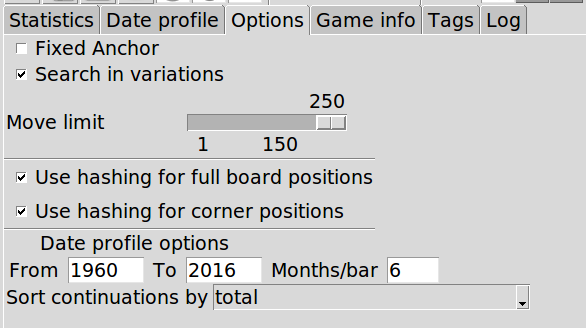
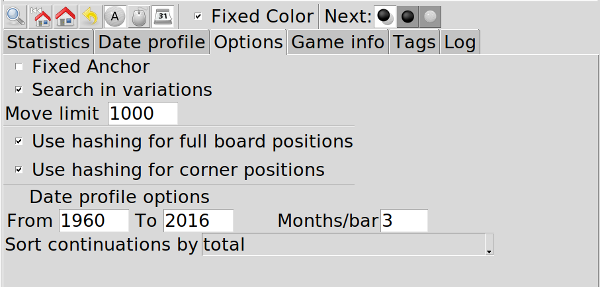
Update documentation

Changed region(s): [[0.0, 0.0, 1.0, 1.0]]

diff --git a/doc/manual.rst b/doc/manual.rst
@@ -50,10 +50,10 @@ Now continue with the :ref:`getting-started` section of the tutorial.
 database files created by Kombilo, you should remove the databases from within
 Kombilo before uninstalling.)
 
-*Upgrading:* Upgrading from 0.8 to 0.8.1 can be done via pip (``pip install -U
-kombilo``). If you still have an old Kombilo instance (version 0.7.\*) around,
-it does not interact with Kombilo 0.8.?. You have to newly process the SGF
-databases for 0.8.
+*Upgrading:* Upgrading from one 0.8.\* version to another can be done via pip
+(``pip install -U kombilo``). If you still have an old Kombilo instance (version
+0.7.\*) around, it does not interact with Kombilo 0.8.\*. You have to newly
+process the SGF databases when upgrading from 0.7.\* to 0.8.\*.
 
 .. index::
   pair: Installation; Mac OS X
@@ -106,16 +106,28 @@ Windows
 -------
 
 There is an installer provided for Kombilo which should *just work* and which is
-recommended.
+the easiest option. Alternatively (and that would be the cleaner way, even if
+a little more cumbersome) you can also install Python 2.7 from `python.org
+<http://www.python.org/>`_ and then install Kombilo as a Python package via
+`c:\python27\scripts\pip.exe install kombilo`.
 
 *Uninstall*: The installer automatically installs a program to uninstall
 Kombilo.  To also remove the database files created by Kombilo, you should
 remove the databases from within Kombilo before uninstalling.
 
-*Upgrading from version 0.7*: There is no automatic upgrading. Just install
-Kombilo 0.8.1, and deinstall Kombilo 0.7.\*. The two versions can also coexist,
-so you could leave the old version until you are convinced that the new version
-works. You will have to newly process your databases for 0.8.1.
+*Upgrading from version 0.7*: There is no automatic upgrading. Just deinstall
+the old Kombilo version and install the new one.  Versions 0.7.\* and 0.8.\* can
+also coexist, so you could leave the old version until you are convinced that
+the new version works. You will have to newly process your databases for 0.8.\*
+when coming from 0.7.\*. Befor deinstalling 0.7.\* you should remove the
+databases (in the *Edit DB list* window) because the database files will not be
+removed by the uninstaller.
+
+*Upgrading from one 0.8.\* version to another one*: There is no automatic
+upgrading. It is probably safest (but should not be required) to deinstall the
+old version, and then install the new one. Your configuration file and the
+databases you hav inserted will be kept. There is no need to reprocess the
+databases.
 
 If you want to make changes to the program, you will need to build the program
 yourself. For this, you will need Python 2.7 and a C++ compiler (Microsoft
@@ -269,7 +281,14 @@ database for pattern search. You can also select whether all games (or
 none) of the database should be considered as pro games, or whether this
 should be decided by the rank specified in the files.
 
-If you prefer, you can specifiy a folder where the Kombilo files should be
+The default behavior of Kombilo is to create one database per folder (so
+descending recursively into some folder many databases might be created).
+Whether this is suitable or not depends on the number of folders, and the number
+of files in each folder. Unless you have special needs (and a computer with very
+little or very much RAM), it is recommended to aim at databases of between 10000
+and 50000 games.
+
+If you prefer, you can specify a folder where the Kombilo files should be
 stored. If you do not name a folder here, the files will be stored in the
 folder containing your SGF files.
 
@@ -281,7 +300,7 @@ selected the corresponding option before processing the games.)
 The hashing algorithms speed up searches for full board and corner
 positions respectively, on the other hand the procesing takes slightly
 longer, more disk space is consumed, and Kombilo uses more memory when
-running.
+running, and especially when processing new games.
 
 
 .. index::
@@ -306,6 +325,9 @@ In the lower text area, Kombilo will output messages about the processed games.
 * **not inserted**: For games which are not inserted into the database, this
   message is appended to the error message. Otherwise, the game is inserted.
 
+You can switch off the messages about duplicates and names of the processed
+folders by disabling the *Detailed log* option.
+
 
 File sizes
 ..........
@@ -322,8 +344,8 @@ on the amount of memory in your computer.  I recommend a size of at least
 1,000 - 2,000 SGF files per database; that should be fine on almost every
 system.  If you have a lot of memory, you can experiment with larger
 databases to increase performance. For databases with ten thousands of
-games, the "finalizing" will take quite some time (a few minutes for the
-70,000 GoGoD games on my laptop), so please be patient.
+games, the "finalizing" will take quite some time (a minute or two for the
+85,000 GoGoD games on my laptop), so please be patient.
 
 Kombilo will create several database files: ``kombilo.db``, ``kombilo.da``,
 and if you use the hashing algorithms, also ``kombilo.db1`` and
@@ -440,8 +462,7 @@ Search in variations
   considered.
 
 move limit
-  Find only occurrences before the given move number. The maximum value 250
-  means: find all occurrences.
+  Find only occurrences before the given move number.
 
 algorithms
   Choose whether Kombilo should use hashing algorithms for full board
@@ -1529,16 +1550,12 @@ though, that the header will be lost when you change the game info
 of that game: whenever Kombilo writes an SGF file, it will only write
 the game (resp. the game collection) itself.
 
-Kombilo creates a separate database for each folder of SGF files (not including
-the files in subfolders - each subfolder will get its own database). This causes
-problems if you have your files in very many folders (hundreds, or more),
-because at certain points Kombilo will try to open all database files at the
-same time (e.g., when checking for duplicates). It is better, also for the
-search performance, to put your games into relatively few folders. It should be
-no problem to have tens of thousands of games in one folder digested by Kombilo.
-(As a workaround upon encountering this problem, you could also increase the
-allowed number of open files; on linux systems, the ``ulimit`` command allows to
-do this.)
+Kombilo by default creates a separate database for each folder of SGF files (not
+including the files in subfolders - each subfolder will get its own database).
+This causes problems if you have your files in very many folders (hundreds, or
+more), because at certain points Kombilo will try to open all database files at
+the same time (e.g., when checking for duplicates). In that case, please uncheck
+the *Create one DB per folder* option.
 
 .. index::
   Game records; Where to find

diff --git a/doc/tutorial.rst b/doc/tutorial.rst
@@ -30,12 +30,11 @@ the left hand column.
 The first thing you have to do now is to add SGF files to the database
 list; choose the *Edit DB list* command in the Database menu.
 
-A *database* corresponds to a directory of SGF
-files; it contains all the SGF files in that directory. Kombilo does not
-come with any games. You can either download a game collection
-(:ref:`find-game-records`) from the internet, or buy a commercial
-one. The `GoGoD encyclopedia <http://gogodonline.co.uk/>`_ comes with more
-than 70.000 at the time of writing, and is highly recommended.
+A *database* is a collection of SGF files; the default is to create one database
+per folder of SGF files. Kombilo does not come with any games. You can either
+download a game collection (:ref:`find-game-records`) from the internet, or buy
+a commercial one. The `GoGoD encyclopedia <http://gogodonline.co.uk/>`_ comes
+with more than 70.000 at the time of writing, and is highly recommended.
 
 See also the section about :ref:`requirements-on-SGF-files`
 in order to understand which kind of SGF files the program can handle. 
@@ -47,7 +46,11 @@ Check (and change, if necessary) the options - mainly whether all
 subdirectories should also be added, and then use the ``Add DB`` button to
 select a directory of SGF files. You can add several directories one after
 the other. From a performance point of view, it is best not to have too
-many databases, but rather to group your SGF files into few databases.
+many databases, but rather to group your SGF files into few databases. Having
+a database of 50000 games should not be a problem. For much larger databases,
+you need sufficient memory on your machine. Processing a database of 100000
+might require up to 1.5 gigabytes of RAM for Kombilo. If you uncheck the hash
+algorithms, the memory usage (and search performance ...) go down considerably.
 
 When you add a directory for the first time, the SGF files will be
 'translated' into a format that makes the search more efficient.  This
@@ -56,7 +59,6 @@ take a couple of minutes even on a very fast machine.  But this has only to
 be done once. The data will be written to several .db files in the same
 directory. (Note: this processing is much faster now than it was in Kombilo
 0.5 and earlier versions.)
-
 
 The sgf files remain in the directory, and Kombilo will not change them
 (unless you change the game info or edit the games yourself, of course).
@@ -76,7 +78,11 @@ using the ``OK`` button.
   character encodings and hence cannot be fed into Kombilo right away. This
   issue will hopefully be resolved soon. See :ref:`encodings`.
 
+.. warning:: Collections in very many folders
 
+  If you have a collection in vy many (like hundreds or more) of folders with
+  relatively few games each, you should switch off the *Create one DB per
+  folder* option.
 
 Searching for patterns
 ======================

diff --git a/doc/technical_notes.rst b/doc/technical_notes.rst
@@ -1,0 +1,27 @@
+==================================
+Technical Notes
+==================================
+
+Some notes around development and deploying (currently not included in the
+online documentation or the pdf; it is more notes to myself).
+
+Miscellaneous
+================
+
+Signing the installer
+-----------------------
+
+You need the certificate to sign the code with as a pfx file. Install
+osslsigncode.  Build the installer exe file first. Then run::
+
+  ./osslsigncode sign -pkcs12 ug201611.pfx -pass PASSWORD_FOR_CERTIFICATE
+    -n "Kombilo" -i http://www.u-go.net/
+    -t http://timestamp.verisign.com/scripts/timstamp.dll
+    -in kombilo081-32.exe -out kombilo-081.exe
+
+with password, certificate file name, infile, outfile suitably adapted.
+
+(It would also be possible to make this part of the build process, using
+encrypted environment variables on Appveyor to encrypt the certificate and
+decrypt it during build, and then use signtool.exe. Since we do not release
+a signed installer that often, this does not seem to make much sense, though.)

diff --git a/doc/history.rst b/doc/history.rst
@@ -26,6 +26,16 @@ History/Change log
 0.8
 ---
 
+0.8.2 (November 2016)
+^^^^^^^^^^^^^^^^^^^^
+
+* Reduce memory usage at several points: pattern searches, search history, processing
+* Improve user interface (thanks to D. Sigaty for several suggestions)
+* Improve handling of collections distributed among many folders
+* Add references to commentaries (Go World now complete; several books added)
+* Several minor bug fixes
+
+
 0.8.1 (October 2016)
 ^^^^^^^^^^^^^^^^^^^^
 
